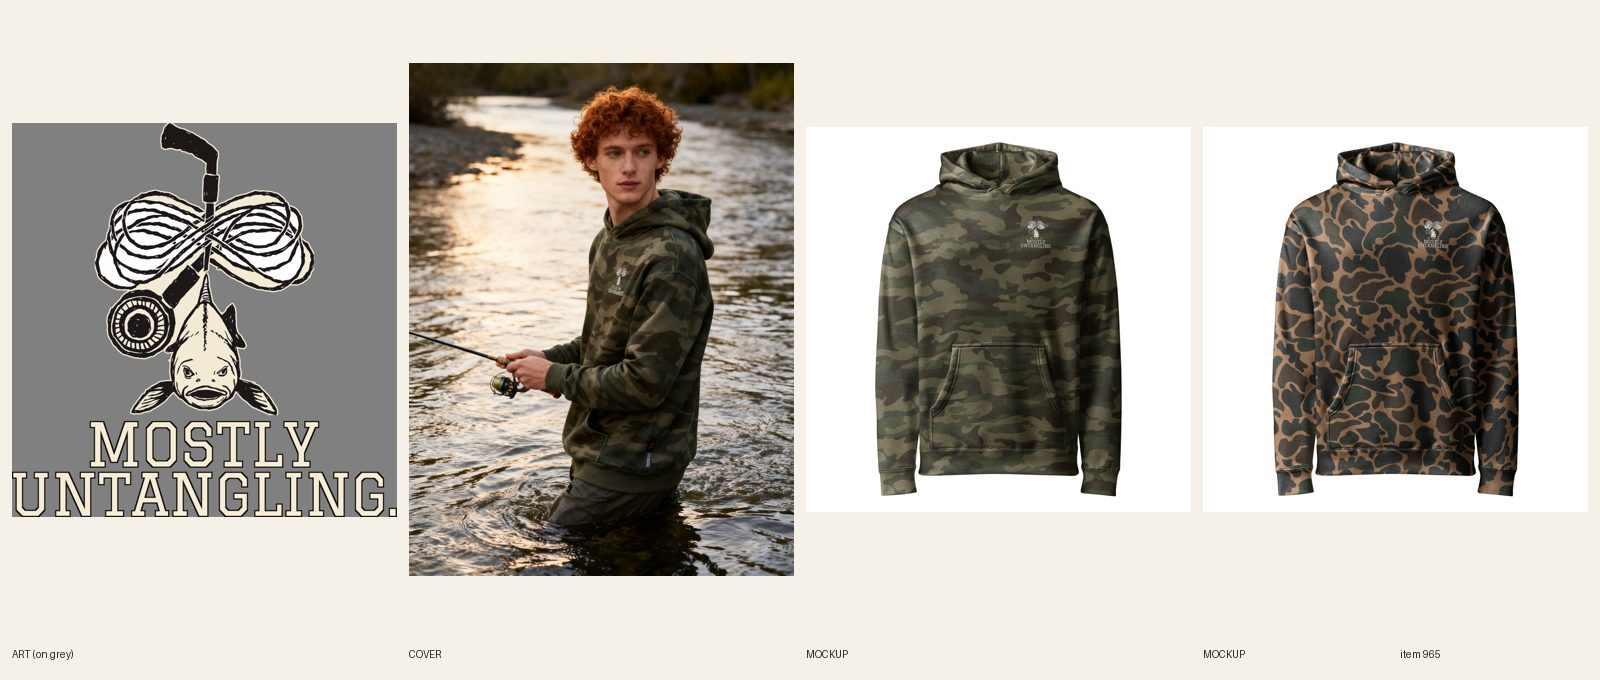
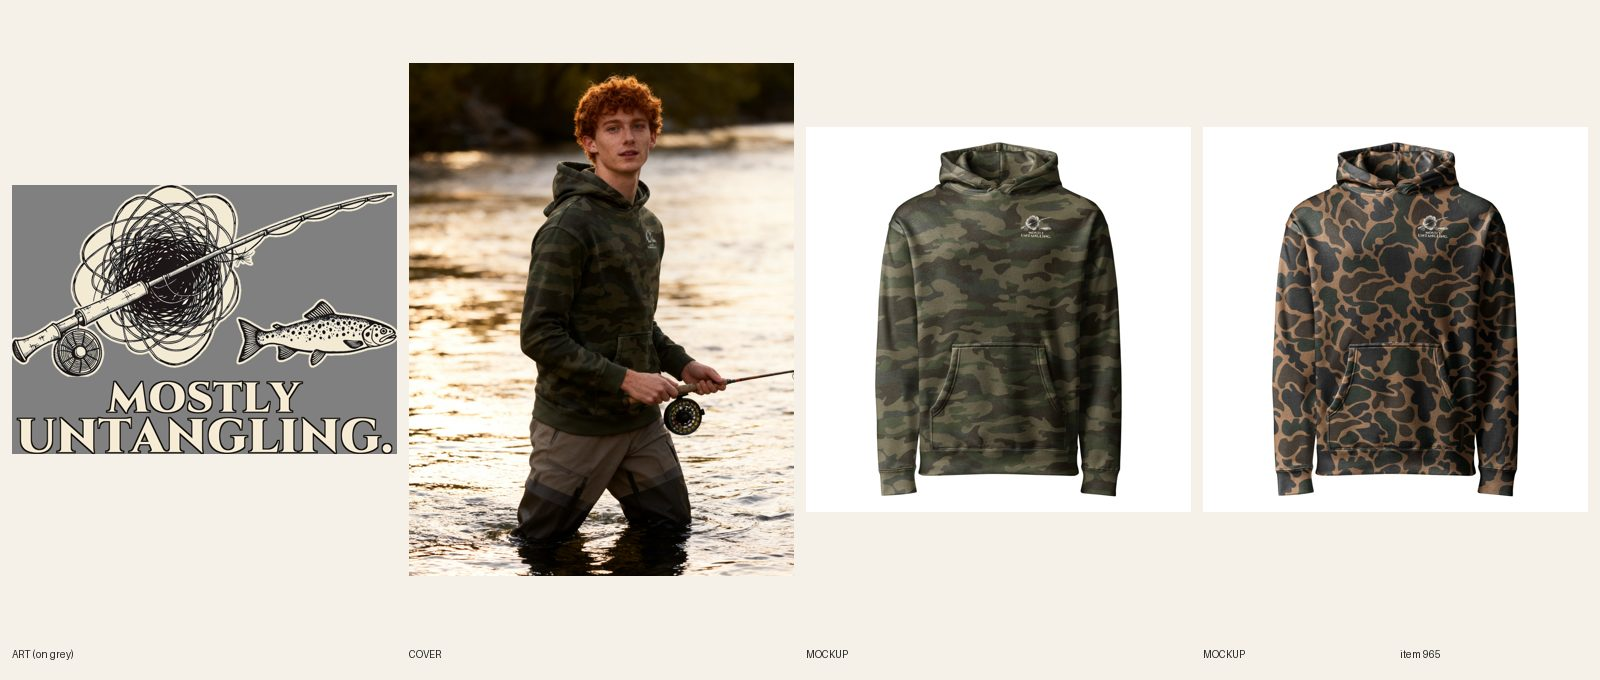
[B] review 965 camo twin REDO rebuilt; run end, release lock

Changed region(s): [[0.0, 0.0926, 0.5, 0.8647], [0.875, 0.3088, 0.9062, 0.3706], [0.625, 0.3088, 0.6562, 0.3706]]

diff --git a/docs/pipeline/965-camo-twin-fishing-fly-fishing-mostly-untangling.md b/docs/pipeline/965-camo-twin-fishing-fly-fishing-mostly-untangling.md
@@ -1,4 +1,4 @@
-status: BUILDING B 2026-10-30T17:00Z
+status: REVIEW
 lane: B
 type: twin
 id: 965
@@ -28,3 +28,4 @@ push: camo
 - 2026-10-23 14:55 UTC director: RE-BRIEF (answers the builder's 2026-10-23 13:50 stand-down): this twin no longer follows the old patch standard (R11.13 superseded by docs/backlog/camo-redo.md, Sam 2026-10-22). Build it to camo-redo.md rules 1-6: style S9, placement B3 (tag placement-b), no cream box, no tall condensed sans, no default orange second line, a font no other camo item in the run uses, the picture acts out the joke; two fal lifestyle photos per the camo-redo photo section. Redo the existing 2026-10-21 Shopify draft and Printful sync in place (new art, file, position, mockups); never a second product. Take it only after the 27 camo-redo rows (REDO comes first).
 - 2026-10-30 14:55 UTC [B]: REBUILT in place per re-brief (S9 woodcut, B3 small left chest, tag placement-b), product 15372843811120 (DRAFT), Printful 483725387. Art: 1 Recraft call (tangled fly line on rod and reel, grumpy trout, black ink), lettering Graduate (recent lane B faces: Damion, Bevan, Rye, Caveat Brush, Inter; not among them), line MOSTLY UNTANGLING. (2 words+, setup moved to title/copy). Print 1978 x 2023, FW625 TOP300 LEFT1475 (h 639), art 74% of height, cap 233 px = 74 px at FW625. 14/14 on file 1098676484 (verified, back logo 1080398177). New title 'Men's Fishing – Mostly Untangling Fly Fishing Camo Hoodie' (7i), SEO, copy, alts, tags updated. Images: 2 lifestyle (registry 1125; stream at first light on Forest, tailgate dusk on Duck; caption soft blur, icon matches), Forest + Duck front, back. Sheet docs/review/965.jpg. Local audit not run (draft, no spec). fal ~$0.19.
 - 2026-10-30 14:47 UTC director: REDO (art + photo; product stays DRAFT; B3 placement, line length and cap height pass). 1. R5.3.4 (the niche would wince): the rod ends in a thick black bent club head that reads as a hockey stick or golf club. A fly rod tapers to a thin tip; the fly reel sits under the cork grip at the butt. 2. camo-redo rule 3 (the picture acts out the joke): the line is a neat symmetrical infinity loop, not a tangle. MOSTLY UNTANGLING. needs a real bird's-nest snarl around the rod (leader and fly caught in it). The fish is not a trout (brief: a trout watching) and hangs head-down from the line, which reads as caught, off the joke. Redraw with one Recraft call: snarled line on a correct fly rod, a spotted trout looking on unbothered beside it. 3. S9 woodcut = carved lettering; Graduate is a collegiate varsity face (S6). Re-set MOSTLY UNTANGLING. in a carved or linocut-feel face not used on the last 5 lane B builds. 4. R6.8 / R5.3.4 photo 1: the man holds a spinning rod and spinning reel in a fly fishing product photo; fly anglers will spot it. New photos after the new print: fly rod with the reel under the grip, waders, from the new mockup.
+2026-10-30 17:39 UTC [B] REBUILT again after REDO: new Recraft art (fly rod tapered with reel under the grip, bird's-nest snarl with fly caught, spotted trout calm beside it), S9 woodcut, lettering Cinzel black (carved capitals; recent lane B faces Damion, Bevan, Rye, Caveat Brush, Inter, Graduate), print 2000 x 1399, FW625 TOP300 LEFT1475, art 71% of height, cap 195 px = 61 px at FW625. 14/14 on file 1098838560 (verified). 2 new lifestyle photos from the new mockups (registry 1125; stream with fly reel under grip, tailgate dusk; chest caption soft blur). Copy, SEO, alts updated. Sheet docs/review/965.jpg. fal ~$0.45.

diff --git a/docs/intake-log.md b/docs/intake-log.md
@@ -1,4 +1,4 @@
-RUNNING lane B since 2026-10-30 15:40 UTC
+2026-10-30 17:39 UTC — [B] Builder run end: 2 items, camo twin REDOs #964 (bass swims off smug, S7 drop shadow, A+) and #965 (fly rod snarl + trout, S9, B3), both rebuilt in place, DRAFT for director. New products today: 0 of 6 (in-place rebuilds). fal ~$1.1. Lock released.
 2026-10-30 15:27 UTC — [H] Helper run: Telegram inbox empty (getUpdates returned 0 updates; no pause, resume, TikTok links or other messages; nothing to consume). Shopify: 0 orders (list-orders returned none), so no order alert; Printful: 0 orders on hold, no billing check needed. Audit 762 live products: 0 errors, 466 warnings left alone; committed docs/cohesion-audit.md and .json. Category check: 0 products without a Shopify category (no mutation). Site check: unisex-outdoors-went-outside-it-was-fine-camo-hoodie, womens-owl-night-owl-retired-camo-hoodie, mens-hunting-todays-special-tag-soup-camo-hoodie, womens-pilates-core-issues-embroidered-zip-hoodie, womens-retro-loose-goose-embroidered-zip-hoodie and womens-hockey-cold-rink-hot-takes-embroidered-zip-hoodie all 200; homepage 200. Stuck work: no pipeline item BUILDING; no lane lock held. Daily summary not due (director digest already sent today at 15:13). Lock released.
 2026-10-30 15:13 UTC — [D] Director run: inbox: Sam's 10-29 20:45 photo ('centered and justified') never reached the repo, so I asked him on Telegram which page or product and whether he meant the print or page text (open in docs/inbox.md). Reviewed 2 new camo twin sheets, both REDO: #964 Catch and Release (camo-redo rule 3: a generic leaping bass that bites the lure shows the catch, not the release; subject 52% under the 75% A+ size check; S7 needs a drop shadow) and #965 Mostly Untangling (R5.3.4: the rod tip reads as a hockey stick, the line is a neat loop rather than a tangle, the fish isn't a trout; Graduate is a varsity face, not S9 carved; photo 1 shows a spinning reel). 6 new LIVE (Oct 30 Chicago day, cap reached): held camo approvals #956 #958 #962 plus held zip approvals #914 Core Issues, #915 Loose Goose, #933 Cold Rink Hot Takes; R11.15 re-check passed; all ACTIVE + Online Store, Headless, Google & YouTube, audit --handle PASS (warn: no lifestyle cover); fixed 2 metas over 155 and the owl's missing SEO title. Rebuild hook was slow, so I ran nightly-rebuild by hand at 15:00; all 6 pages 200 at 15:13. No new briefs: 49 READY, over the 6-12 target. Telegram: digest sent with the photo question. Lock released.
 2026-10-30 14:56 UTC — [B] Builder run end: 2 items, camo twins #964 (S7 sign painter, A+) and #965 (S9 woodcut, B3), both rebuilt in place, DRAFT for director. New products today: 0 of 6 (in-place rebuilds). fal ~$0.45. Lock released.
